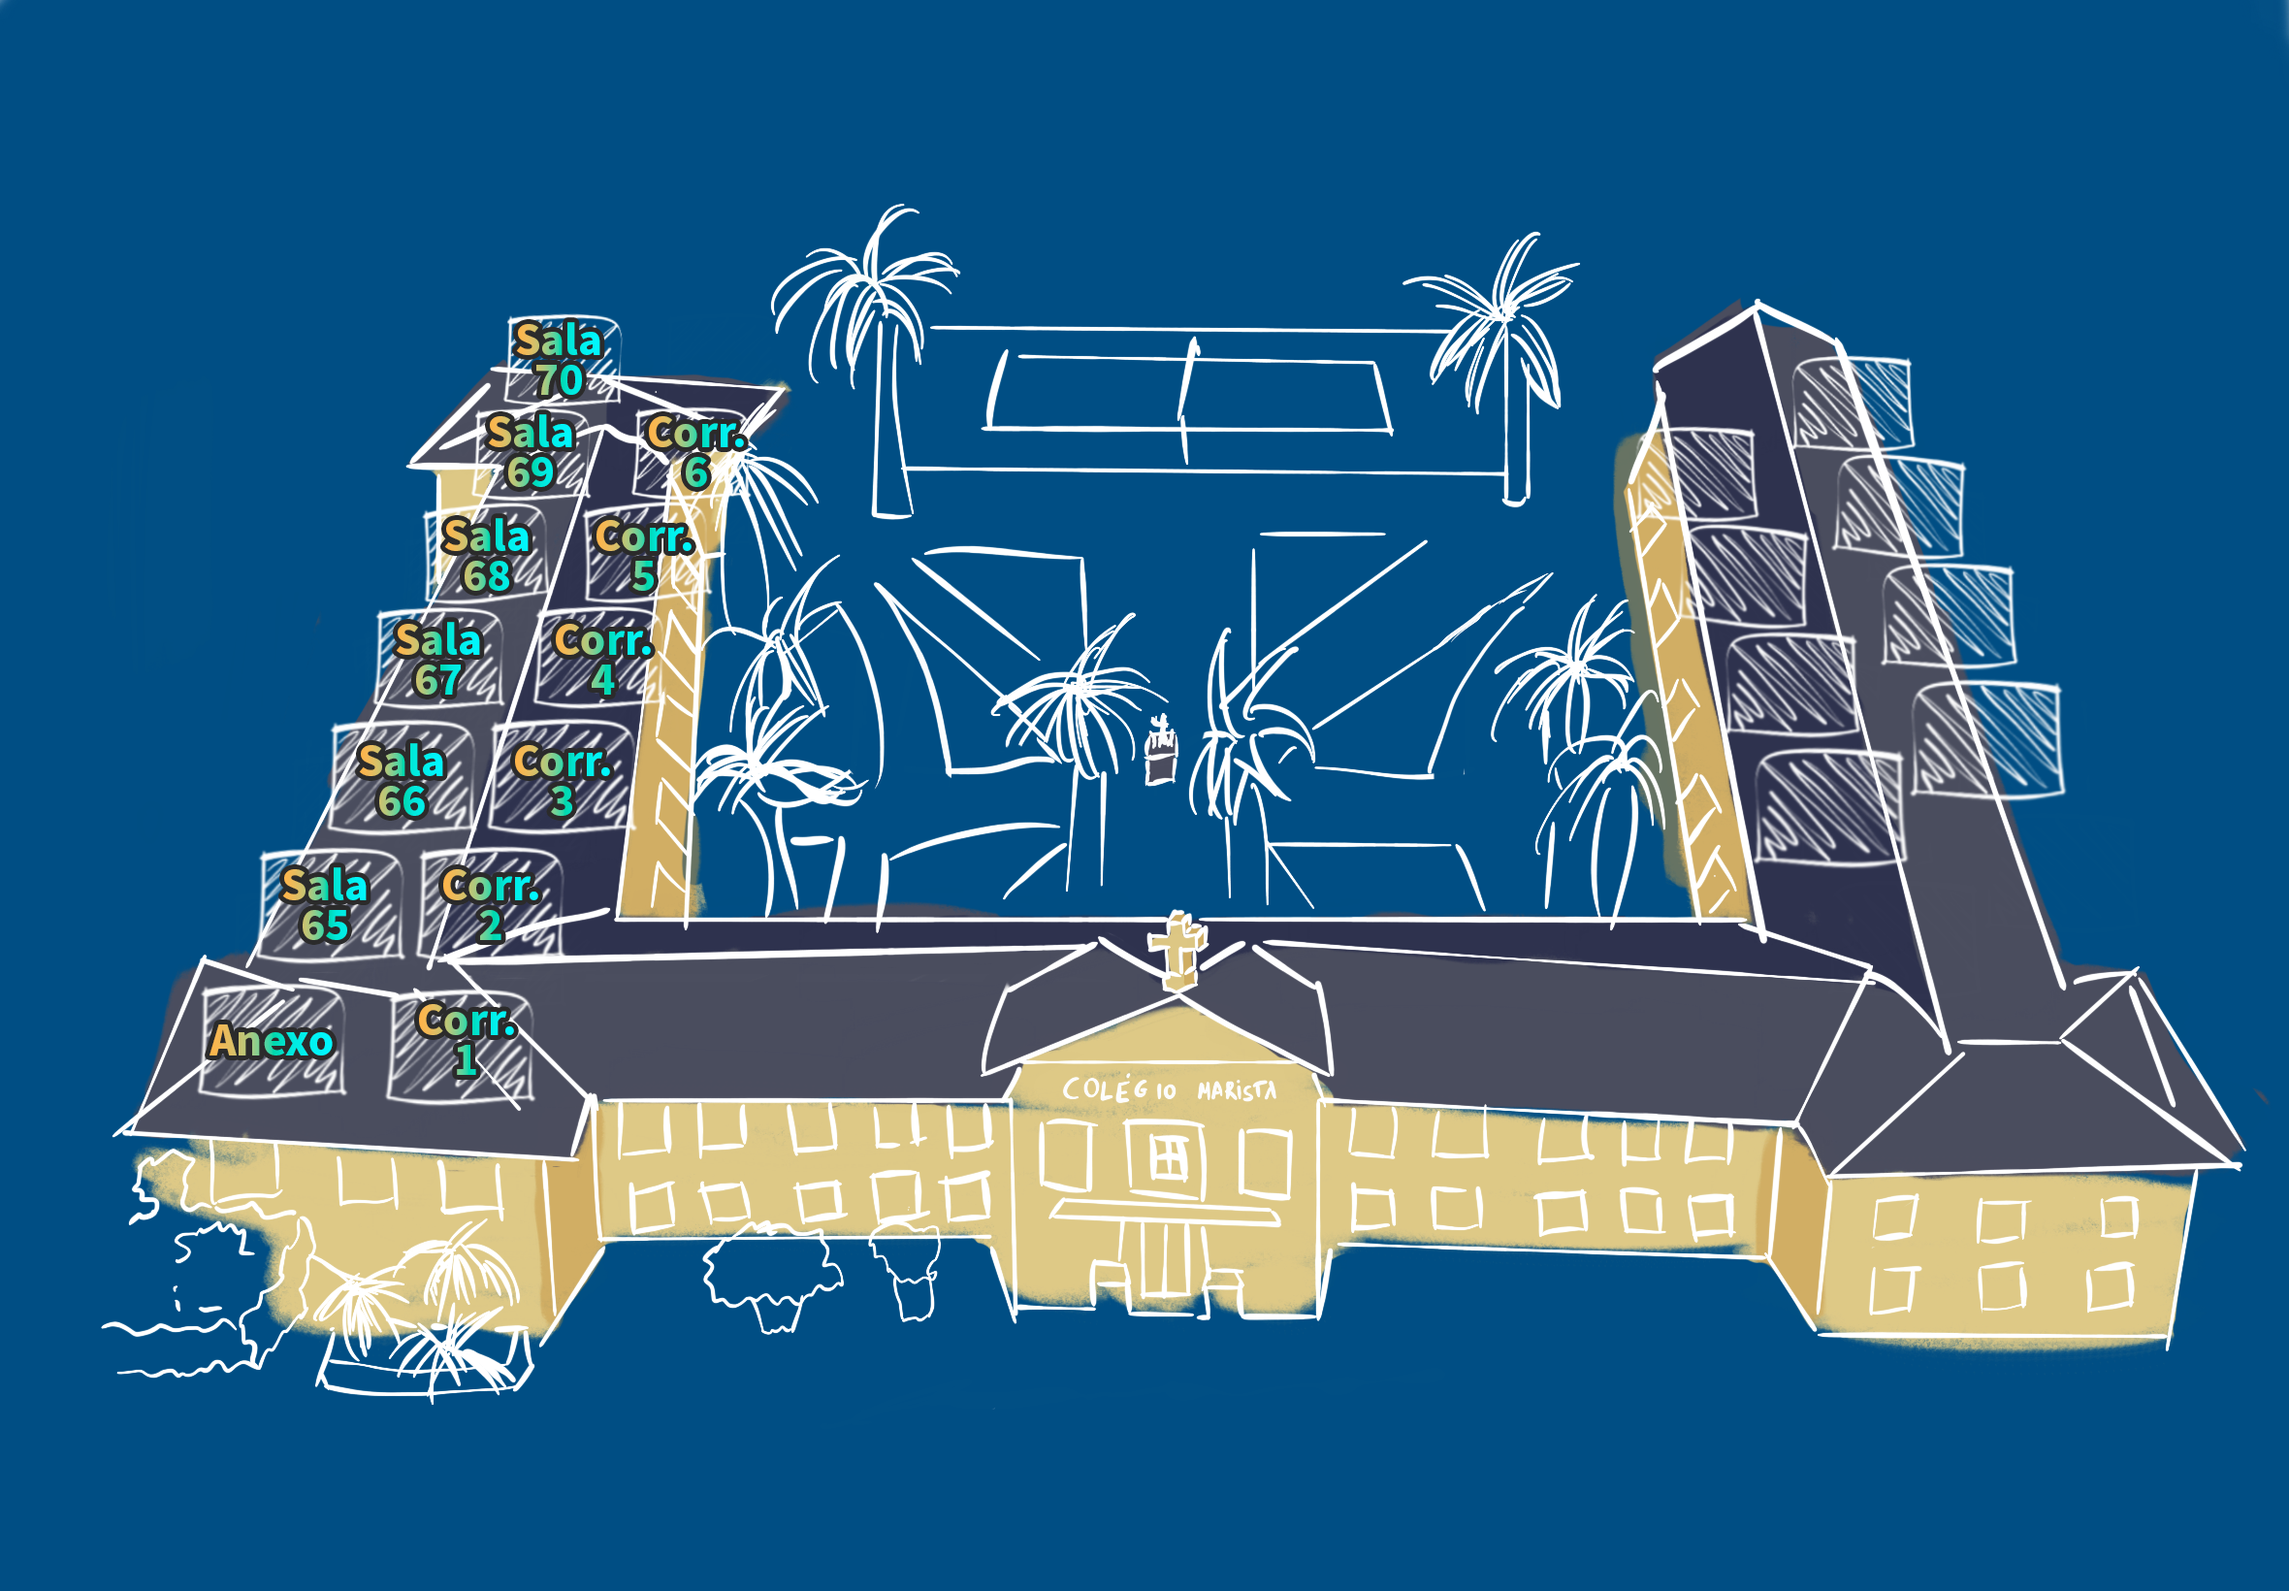
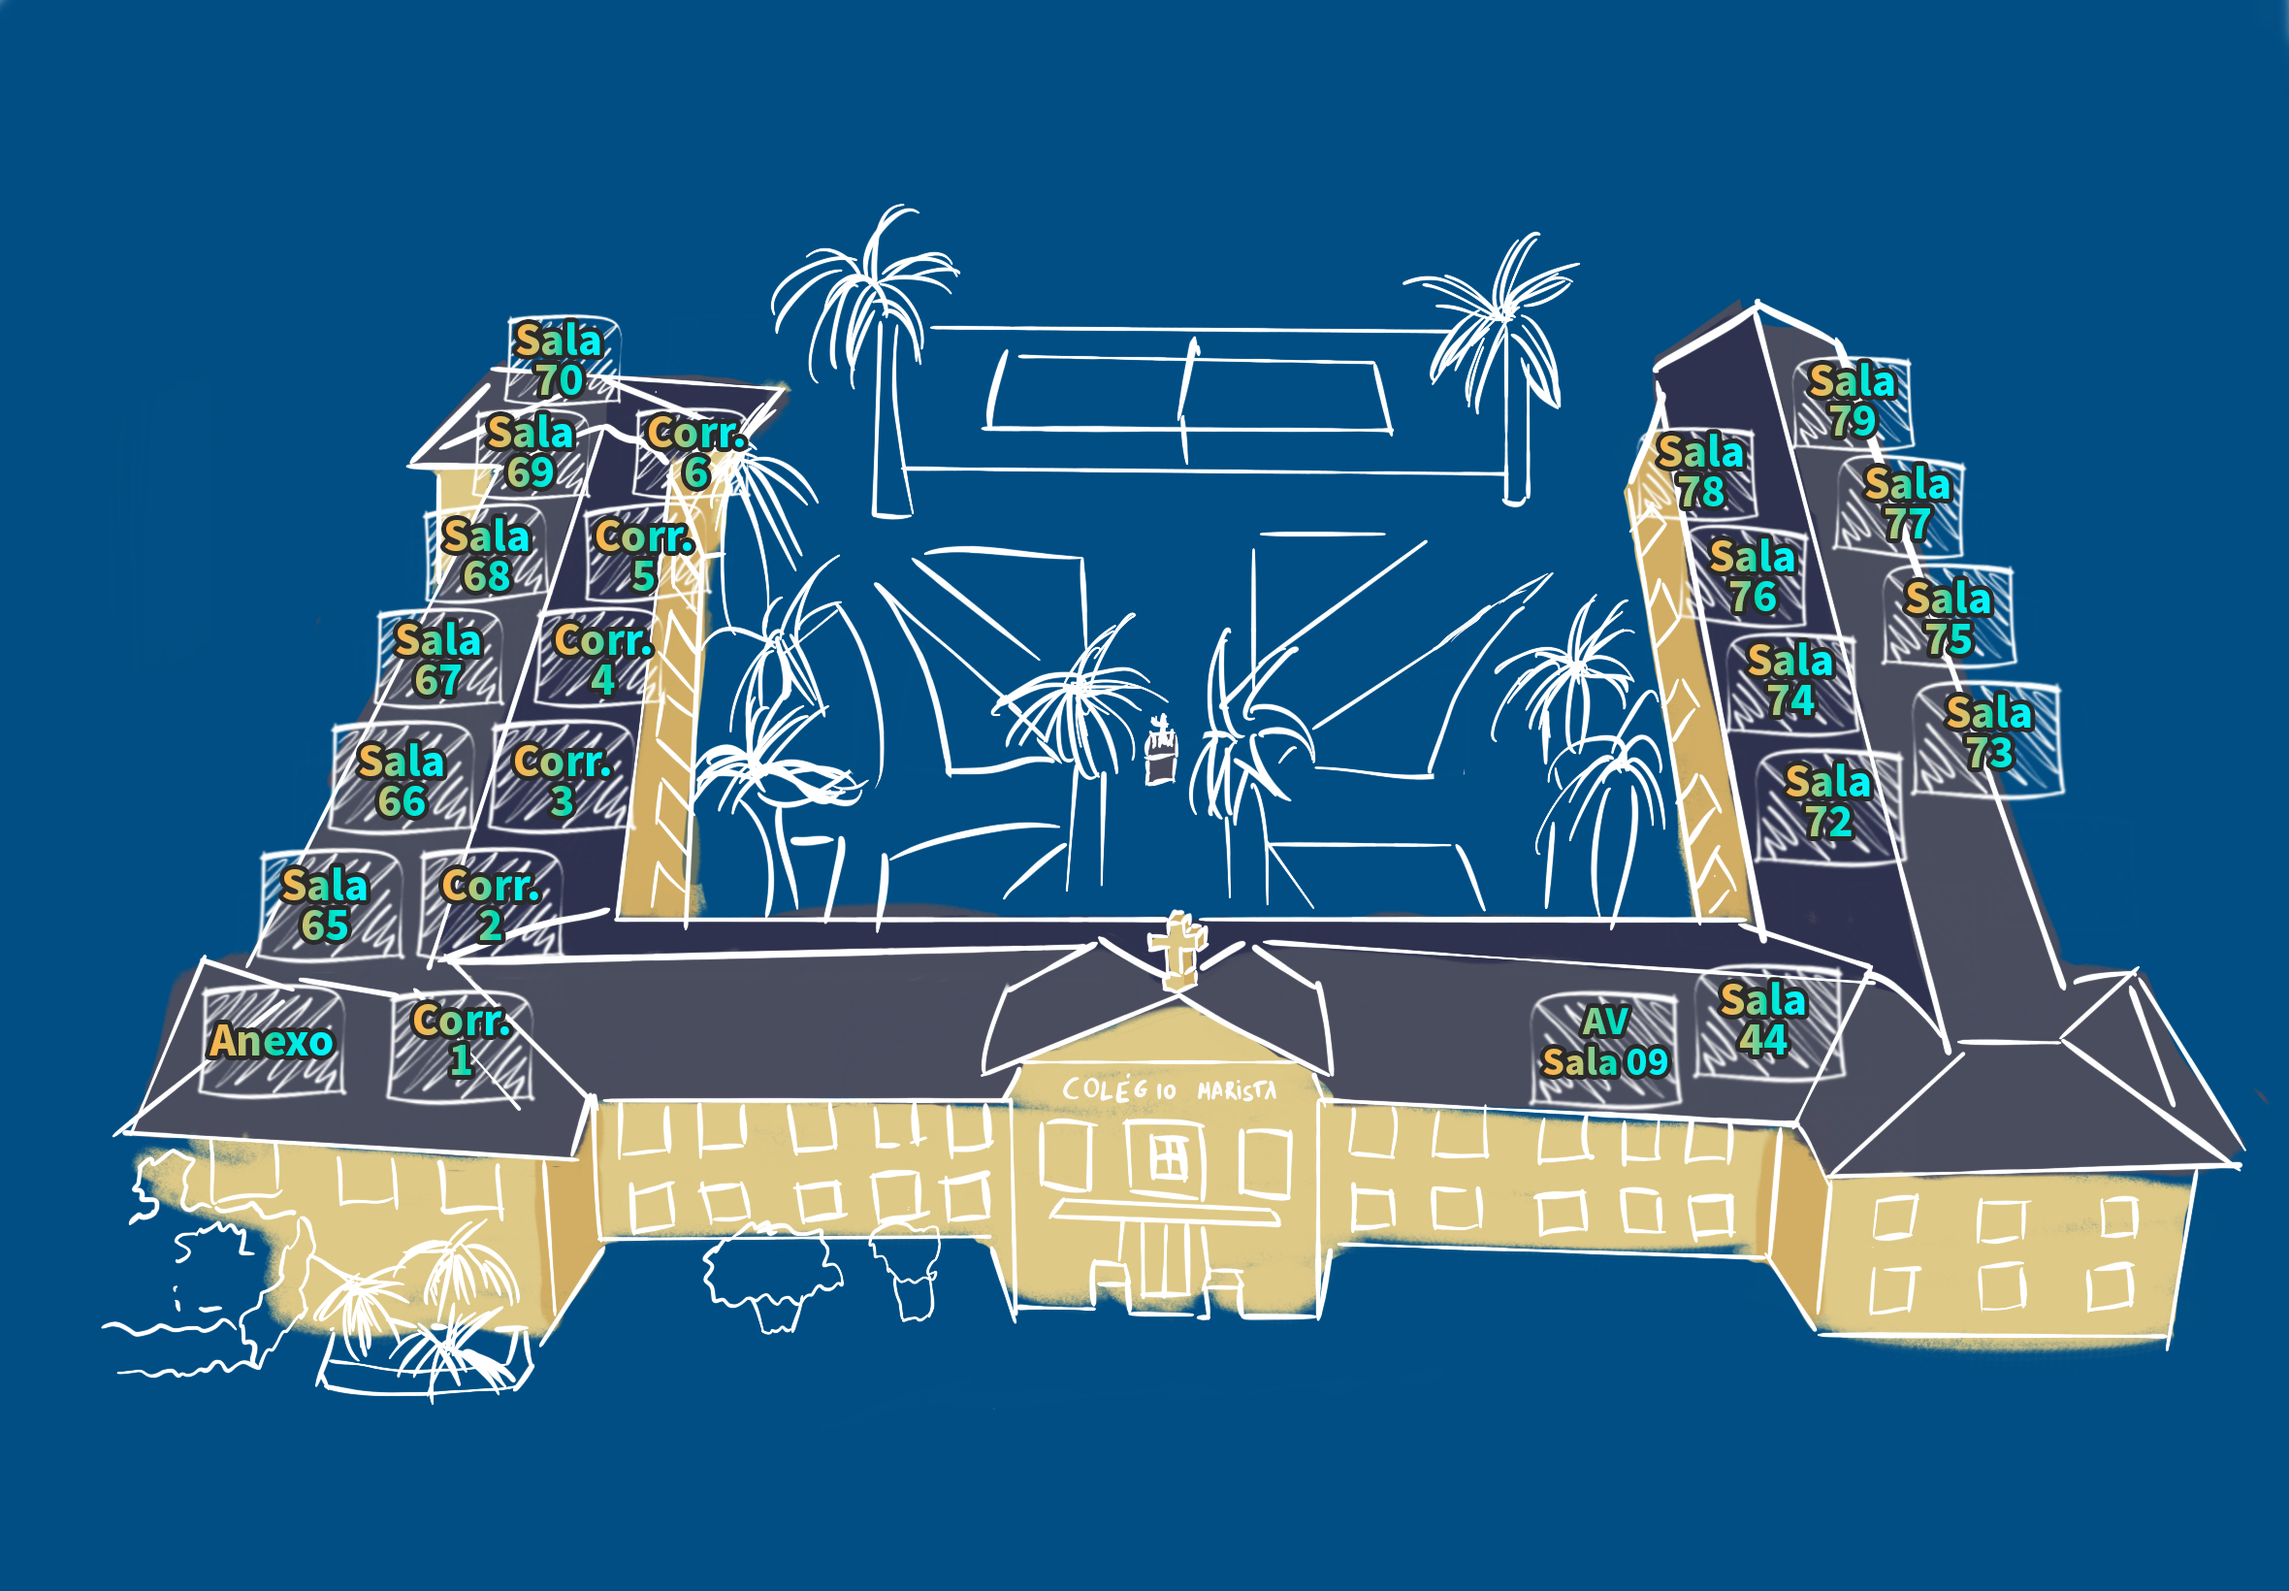
typo

Changed region(s): [[0.6805, 0.2177, 0.897, 0.5598], [0.6496, 0.5909, 0.8042, 0.7152], [0.1547, 0.622, 0.2475, 0.6841]]

diff --git a/arquivos/sala70.html b/arquivos/sala70.html
@@ -10,12 +10,12 @@
 
 <p>Sala 70</p>
 
-<ul> 
-  
+<ul> <li>2<sup>a</sup> A: Empresas Inovadoras.</li>
+  <li>2<sup>a</sup> A: Lixeiras Escolares.</li> 
+ <li>2<sup>a</sup> A: Cidaddes Inteligentes. </li>
+</ul>
 
 <p><a href="../index.html">Volte ao mapa!</a></p>
 
 </body>
-</html><li>2<sup>a</sup> A: Empresas Inovadoras.</li>
-   <li>2<sup>a</sup> A: Lixeiras Escolares.</li> 
-  <li>2<sup>a</sup> A: Cidaddes Inteligentes. </li>
+</html>

diff --git a/arquivos/sala68.html b/arquivos/sala68.html
@@ -13,7 +13,7 @@
 <ul> 
   <li>9<sup>o</sup> A: Coleta de resíduos e separação automatizadas.</li>
   <li>9<sup>o</sup> A: Reservatórios de água e riscos da caixa de amianto.</li> 
-
+</ul>
 <p><a href="../index.html">Volte ao mapa!</a></p>
 
 </body>

diff --git a/arquivos/sala69.html b/arquivos/sala69.html
@@ -13,7 +13,7 @@
 <ul> 
   <li>9<sup>o</sup> B: Protótipo de um aplicativo para adquirir roupas.</li>
   <li>9<sup>o</sup> B: História dos bazazres.</li> 
-
+</ul>
 <p><a href="../index.html">Volte ao mapa!</a></p>
 
 </body>

diff --git a/arquivos/sala66.html b/arquivos/sala66.html
@@ -13,7 +13,7 @@
 <ul> 
   <li>1<sup>a</sup> B: Eco-Park.</li>
   <li>9<sup>o</sup> B: Sustentabilidadde: definição, expectaativa e realidades.</li> 
-
+</ul>
 <p><a href="../index.html">Volte ao mapa!</a></p>
 
 </body>

diff --git a/arquivos/sala67.html b/arquivos/sala67.html
@@ -13,7 +13,7 @@
 <ul> 
   <li>1<sup>a</sup> B: Bi-Parking.</li>
   <li>1<sup>a</sup> B: Soluções no Trânsito.</li> 
-
+</ul>
 <p><a href="../index.html">Volte ao mapa!</a></p>
 
 </body>
